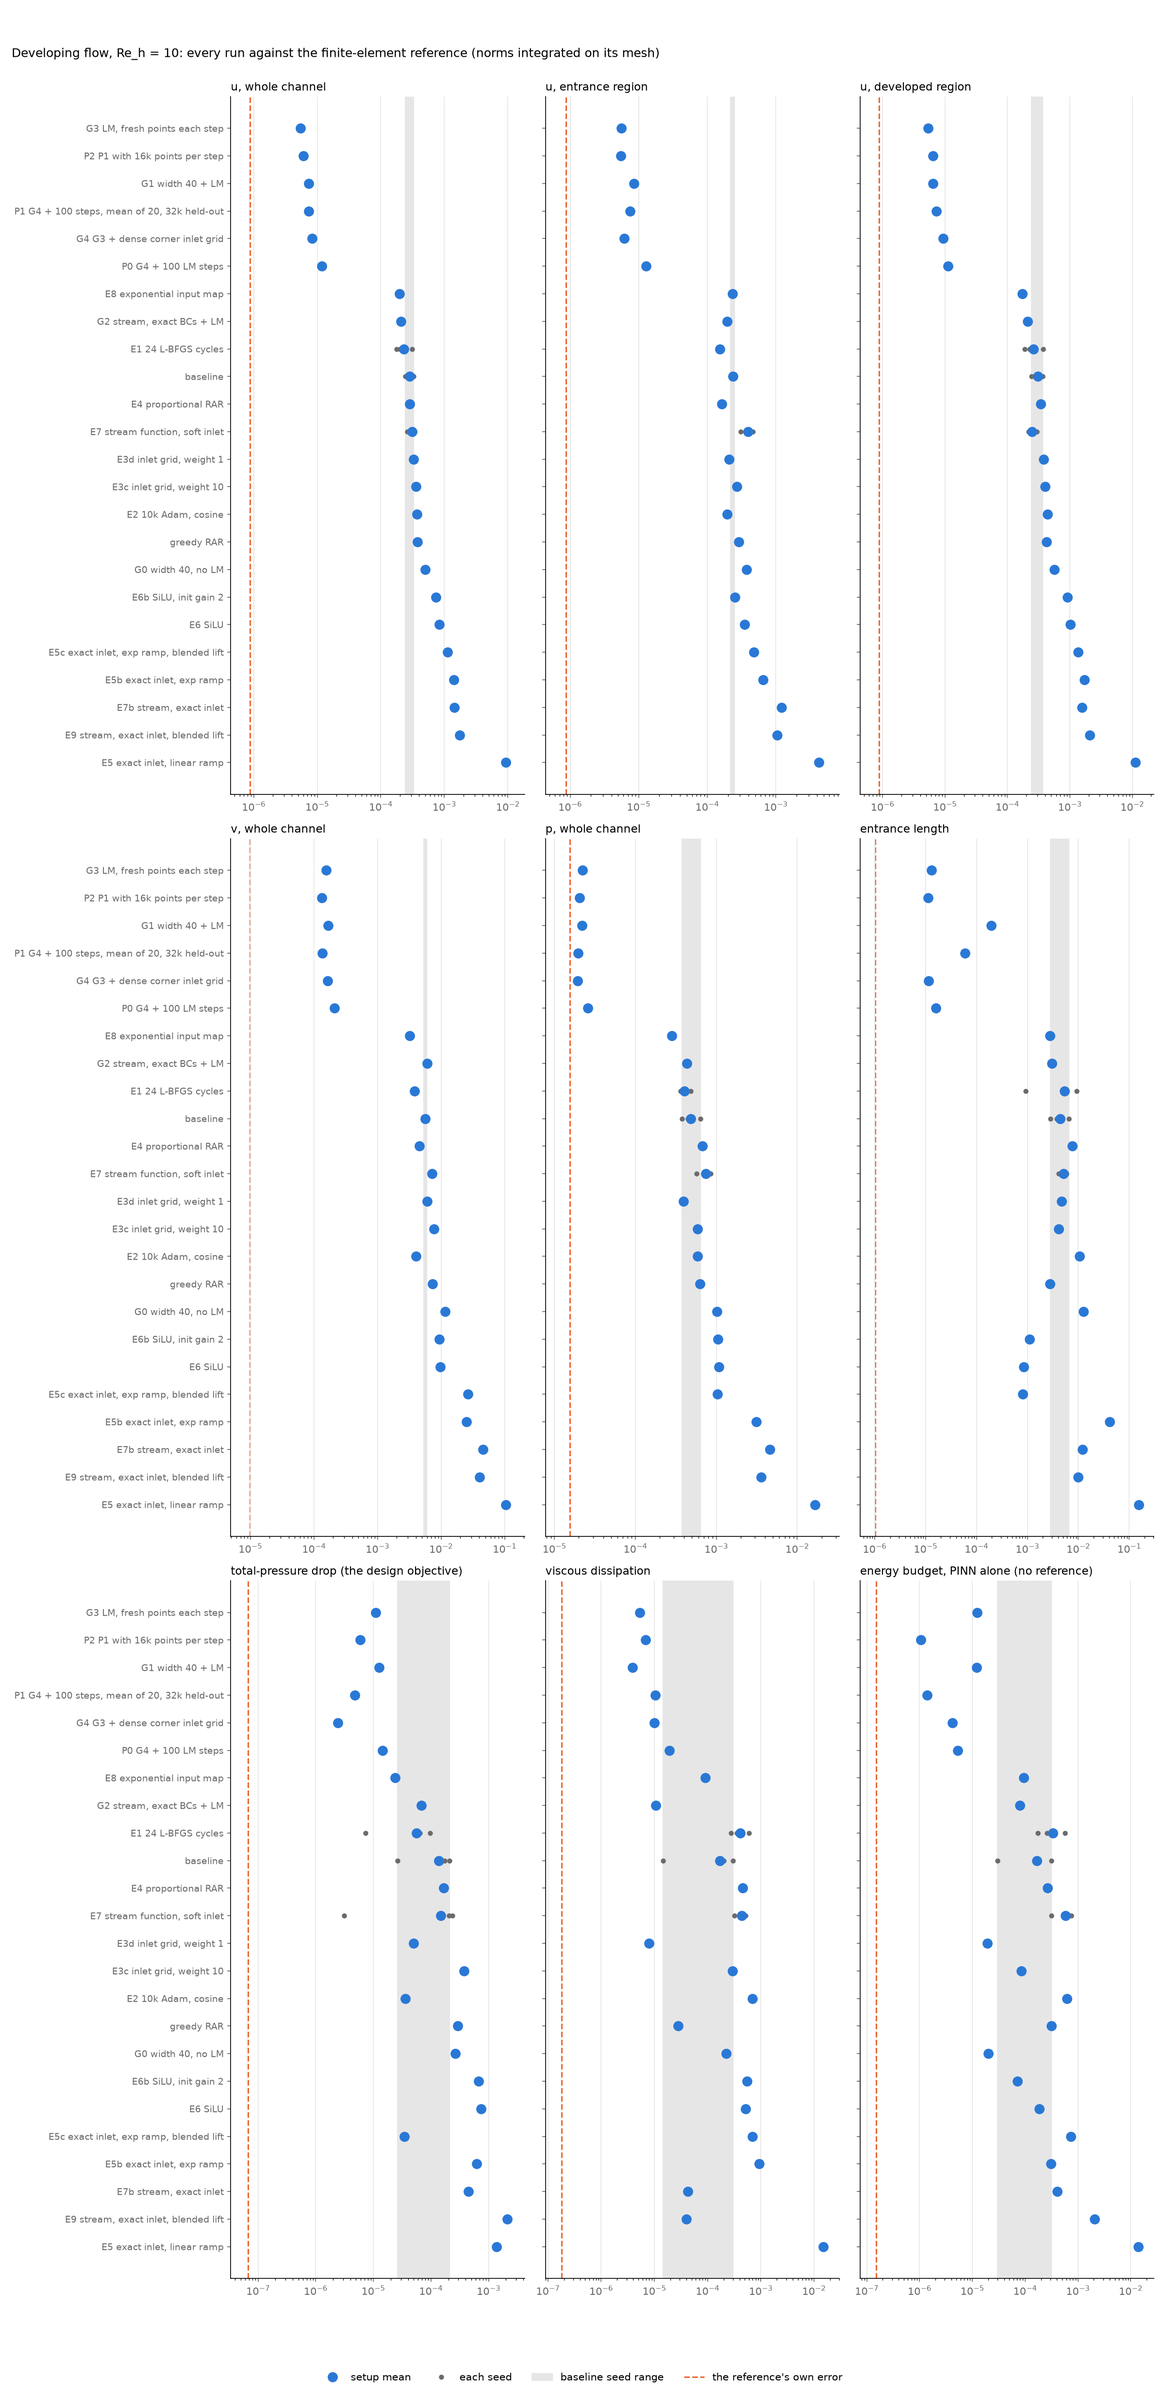
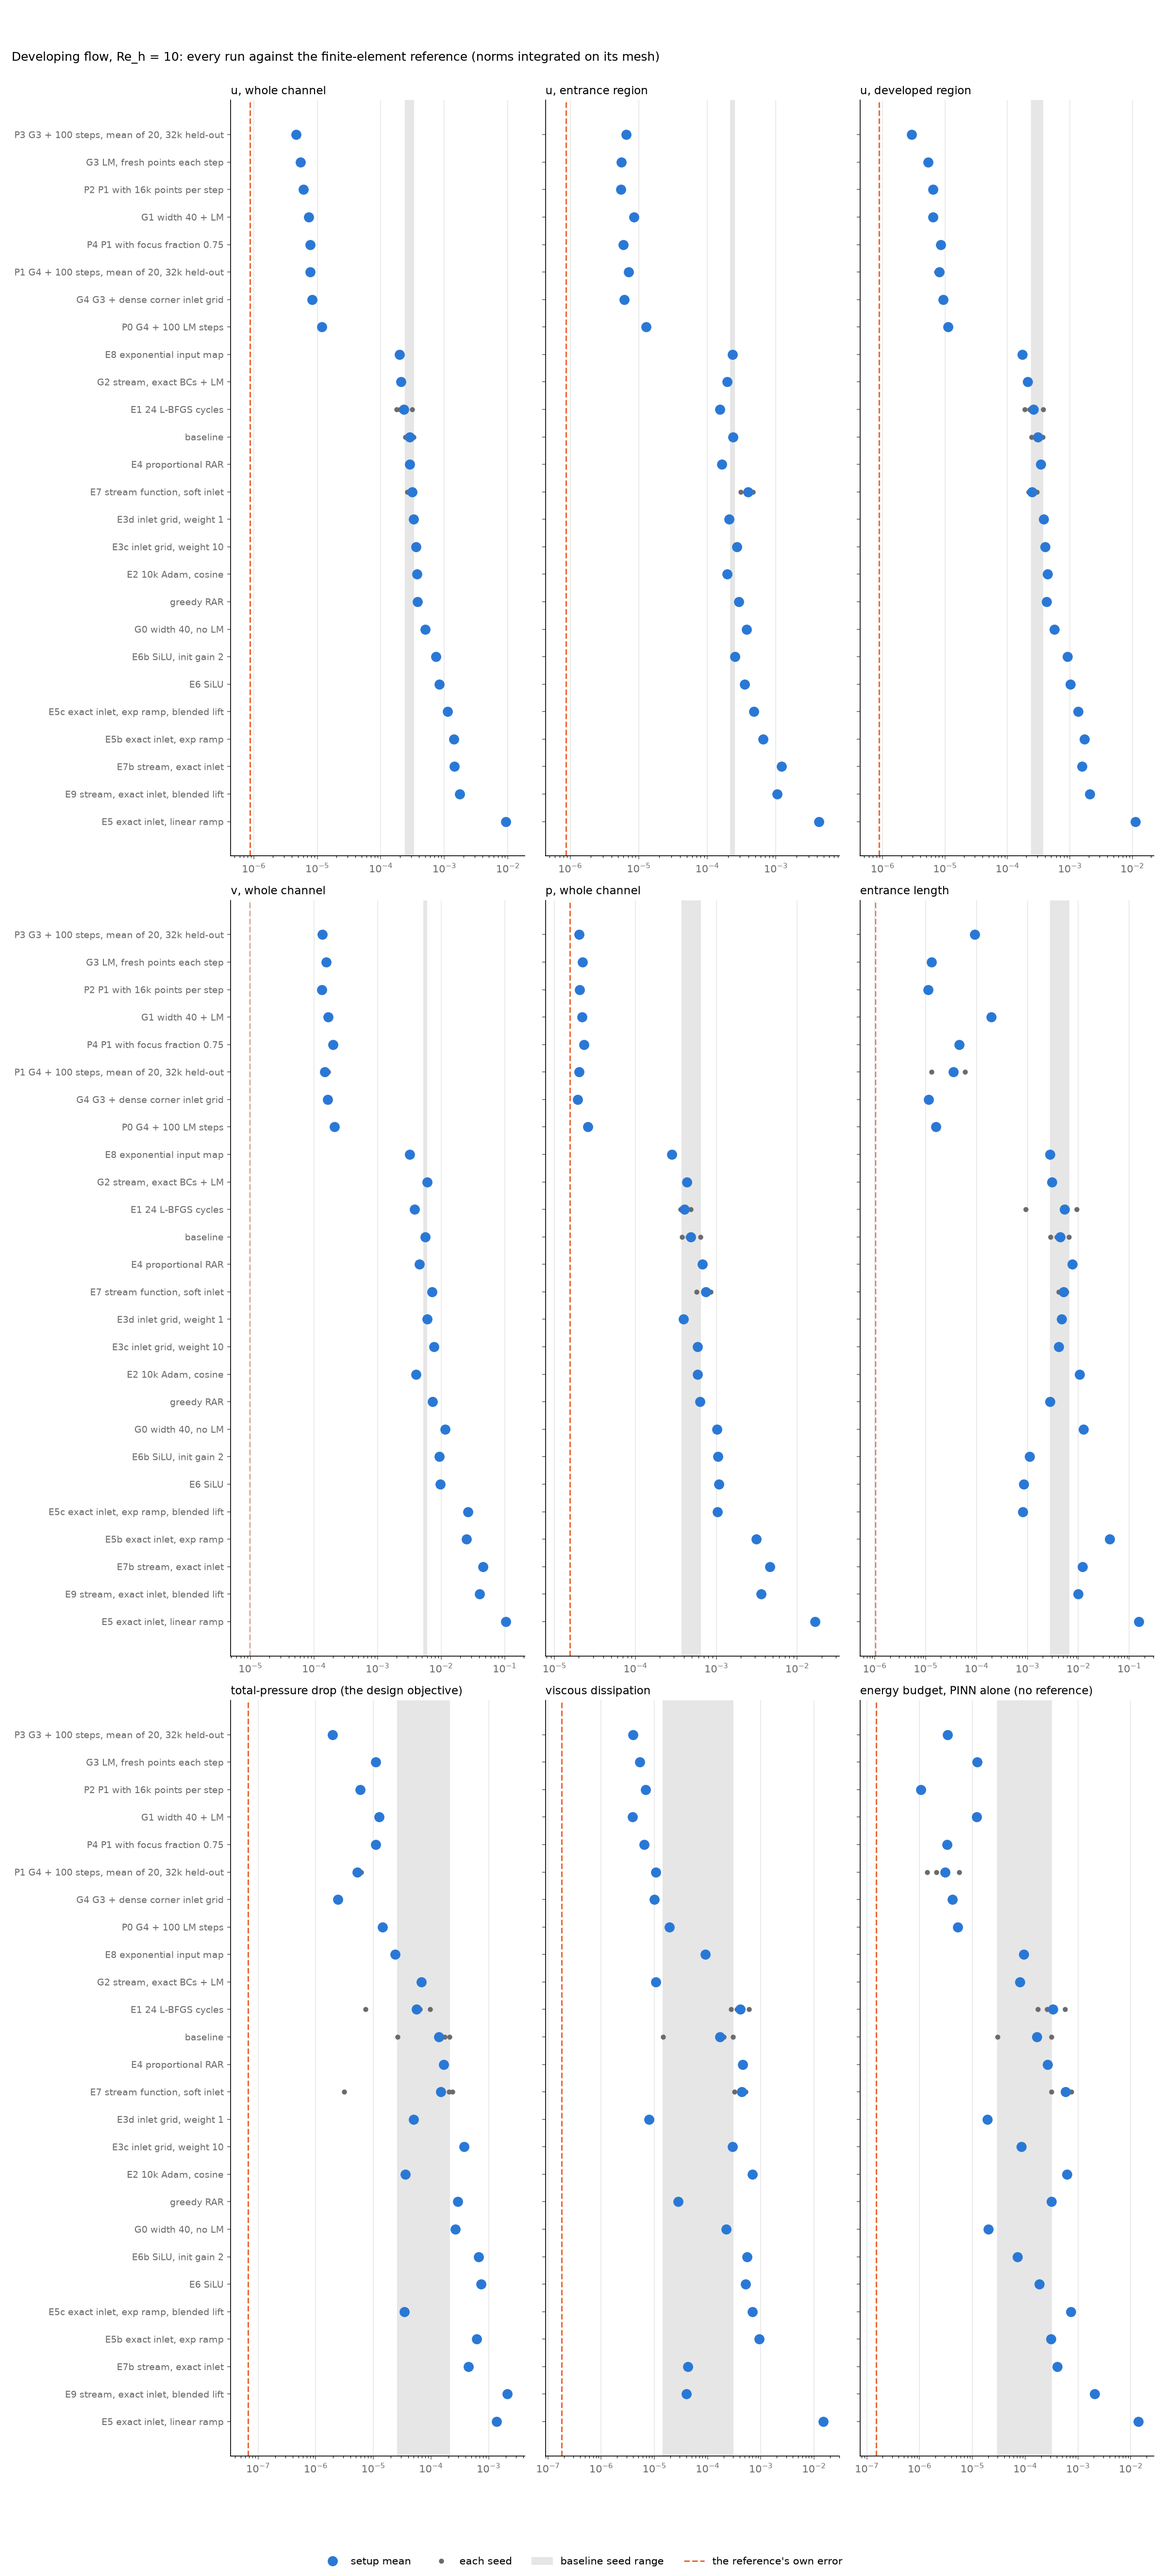
Uncertainty band and sampling: seeds, G3 polish, focus fraction
Three seeds of the same averaged polish of G4 give the band one result sits
in: u +-5%, v +-11%, p +-2%, total-pressure drop +-13%, entrance length
and energy balance 4-4.6x. Against it: 16,384 points per step improve u and
v beyond the band; starting from G3 instead of G4 gives u 4.62e-6 and the
objective 1.97e-6 (both best so far), so G3's lead was its network, not its
selection; focus fraction 0.75 leaves u unchanged and worsens v and the
objective; 0.25 and 0 make LM unstable (94% and 100% of steps raise the
held-out loss over 10x; neither beat its start, 0 also exposed the Cholesky
bug fixed in 8ddf549). Focus 0.5 stays. docs/developing_re10-uncertainty.md
has the tables; the summary is refreshed with the seed band.

Next in the queue: G3 + averaged polish at 16,384 points (the three levers
that helped, together), then G5 and its polish.

Tests on 8ddf549 + this: fast 199 passed, slow 9 passed; polish diffs 10 passed.

Claude-Session: https://claude.ai/code/session_01AbTrWc9Te1W9eJvisv3vV1

diff --git a/docs/developing_re10-uncertainty.md b/docs/developing_re10-uncertainty.md
@@ -1,0 +1,57 @@
+# Developing flow, Re_h = 10: how wide the band is, and what moves a result out of it
+
+All errors are relative L2 against the finite-element reference, integrated
+on its own mesh (`reference.relative_errors`); entrance length is a relative
+error. Every polish run is 100 Levenberg-Marquardt steps warm-started from a
+finished network, selecting on 32,768 held-out points with the mean of the
+last 20 iterates as a candidate, unless stated otherwise.
+
+## 1. The band: the same polish on three seeds
+
+G4 + averaged polish, seeds 1-3 (other training draws, other held-out set):
+
+| | u | v | p | entrance length | total-pressure drop | dissipation | energy balance |
+|---|---|---|---|---|---|---|---|
+| mean | 7.75e-6 | 1.48e-4 | 2.01e-5 | 3.5e-5 | 5.3e-6 | 1.06e-5 | 3.0e-6 |
+| range | 7.4-8.2e-6 | 1.36-1.67e-4 | 1.96-2.03e-5 | 1.3-5.9e-5 | 4.8-6.2e-6 | 1.01-1.14e-5 | 1.4-5.6e-6 |
+| spread | +-5% | +-11% | +-2% | 4.6x | +-13% | +-6% | 4x |
+
+The entrance length is set where the centreline slope is ~0.02, so it
+amplifies a local centreline error ~28x; it and the energy balance cannot rank
+runs at the 1e-5 level without several seeds.
+
+## 2. What moves a result out of the band
+
+| change (against the band above) | u | v | total-pressure drop | verdict |
+|---|---|---|---|---|
+| no averaging, 4,096 held-out points (control) | 1.18e-5 | 2.12e-4 | 1.43e-5 | far worse: selection was a lottery |
+| 16,384 points per step instead of 4,096 | 6.08e-6 | 1.32e-4 | 5.97e-6 | better on u, v: outside the band |
+| start from G3 instead of G4 | **4.62e-6** | 1.36e-4 | **1.97e-6** | much better: G3's network is better, not luckier |
+| focus fraction 0.75 instead of 0.5 | 7.72e-6 | 1.98e-4 | 1.11e-5 | u same, v and objective worse |
+| focus fraction 0.25 | - | - | - | unstable: no step beat the start |
+| focus fraction 0 (uniform) | - | - | - | unstable: held-out loss x1,000 in one step |
+
+## 3. Why sampling near the inlet corners is not optional
+
+Held-out loss along the polish, against its starting value:
+
+| focus fraction | steps > 10x the start | median iterate / start |
+|---|---|---|
+| 0 (uniform) | 100% | 2.2e4 |
+| 0.25 | 94% | 85 |
+| 0.5 | 4% | 1.6 |
+| 0.75 | 1% | 0.93 |
+
+With uniform sampling the inlet corners (0.025% of the area) get about one
+point per 4,096-point draw, so each Gauss-Newton step is free to wreck the
+corner flow. Yet at focus 0.5, 64% of the training loss lies in that 0.025%,
+and a 4,096-point held-out estimate of it has a 14.7% relative standard
+deviation (5% at 32,768) - larger than the differences between plateau
+iterates, which is why selection needs many held-out points and averaging.
+
+## 4. The reference's own limits
+
+u 8.7e-7, v 9.8e-6, p 1.5e-5, total-pressure drop 6.7e-8 (GCI). Every
+top run's pressure error (1.9-2.3e-5) is within 1.5x of the reference's, so
+pressure cannot rank them; its error lies 44% in the inlet strip x* < 0.05
+and 45% in the bulk, so only more elements, not grading, would lower it.

diff --git a/docs/developing_re10-summary.md b/docs/developing_re10-summary.md
@@ -4,10 +4,12 @@ Relative L2 errors (entrance length: relative error). Several seeds: mean (range
 
 | Setup | Seeds | u, whole channel | u, entrance region | u, developed region | v, whole channel | p, whole channel | entrance length | total-pressure drop (the design objective) | viscous dissipation | energy budget, PINN alone (no reference) | Training time (min) |
 |---|---|---|---|---|---|---|---|---|---|---|---|
+| P3 G3 + 100 steps, mean of 20, 32k held-out | 1 | 4.62e-06 | 6.58e-06 | 2.91e-06 | 1.36e-04 | 2.01e-05 | 9.25e-05 | 1.97e-06 | 4.00e-06 | 3.38e-06 | 23 |
 | G3 LM, fresh points each step | 1 | 5.42e-06 | 5.56e-06 | 5.33e-06 | 1.57e-04 | 2.22e-05 | 1.32e-05 | 1.10e-05 | 5.29e-06 | 1.23e-05 | 206 |
 | P2 P1 with 16k points per step | 1 | 6.08e-06 | 5.49e-06 | 6.40e-06 | 1.32e-04 | 2.03e-05 | 1.12e-05 | 5.97e-06 | 6.90e-06 | 1.06e-06 | 76 |
 | G1 width 40 + LM | 1 | 7.32e-06 | 8.58e-06 | 6.47e-06 | 1.68e-04 | 2.20e-05 | 1.93e-04 | 1.27e-05 | 3.86e-06 | 1.22e-05 | 123 |
-| P1 G4 + 100 steps, mean of 20, 32k held-out | 1 | 7.40e-06 | 7.54e-06 | 7.31e-06 | 1.36e-04 | 1.96e-05 | 5.92e-05 | 4.81e-06 | 1.04e-05 | 1.39e-06 | 26 |
+| P4 P1 with focus fraction 0.75 | 1 | 7.72e-06 | 5.91e-06 | 8.60e-06 | 1.98e-04 | 2.31e-05 | 4.53e-05 | 1.11e-05 | 6.43e-06 | 3.34e-06 | 25 |
+| P1 G4 + 100 steps, mean of 20, 32k held-out | 3 | 7.75e-06 (7.4e-06 to 8.2e-06) | 7.13e-06 (6.7e-06 to 7.5e-06) | 8.08e-06 (7.3e-06 to 8.7e-06) | 1.48e-04 (1.4e-04 to 1.7e-04) | 2.01e-05 (2.0e-05 to 2.0e-05) | 3.49e-05 (1.3e-05 to 5.9e-05) | 5.30e-06 (4.8e-06 to 6.2e-06) | 1.06e-05 (1.0e-05 to 1.1e-05) | 3.04e-06 (1.4e-06 to 5.6e-06) | 26 |
 | G4 G3 + dense corner inlet grid | 1 | 8.31e-06 | 6.17e-06 | 9.34e-06 | 1.64e-04 | 1.93e-05 | 1.14e-05 | 2.43e-06 | 9.98e-06 | 4.15e-06 | 229 |
 | P0 G4 + 100 LM steps | 1 | 1.18e-05 | 1.28e-05 | 1.12e-05 | 2.12e-04 | 2.58e-05 | 1.58e-05 | 1.43e-05 | 1.90e-05 | 5.30e-06 | 26 |
 | E8 exponential input map | 1 | 1.98e-04 | 2.34e-04 | 1.73e-04 | 3.21e-03 | 2.80e-04 | 2.75e-03 | 2.37e-05 | 8.99e-05 | 9.40e-05 | 51 |
